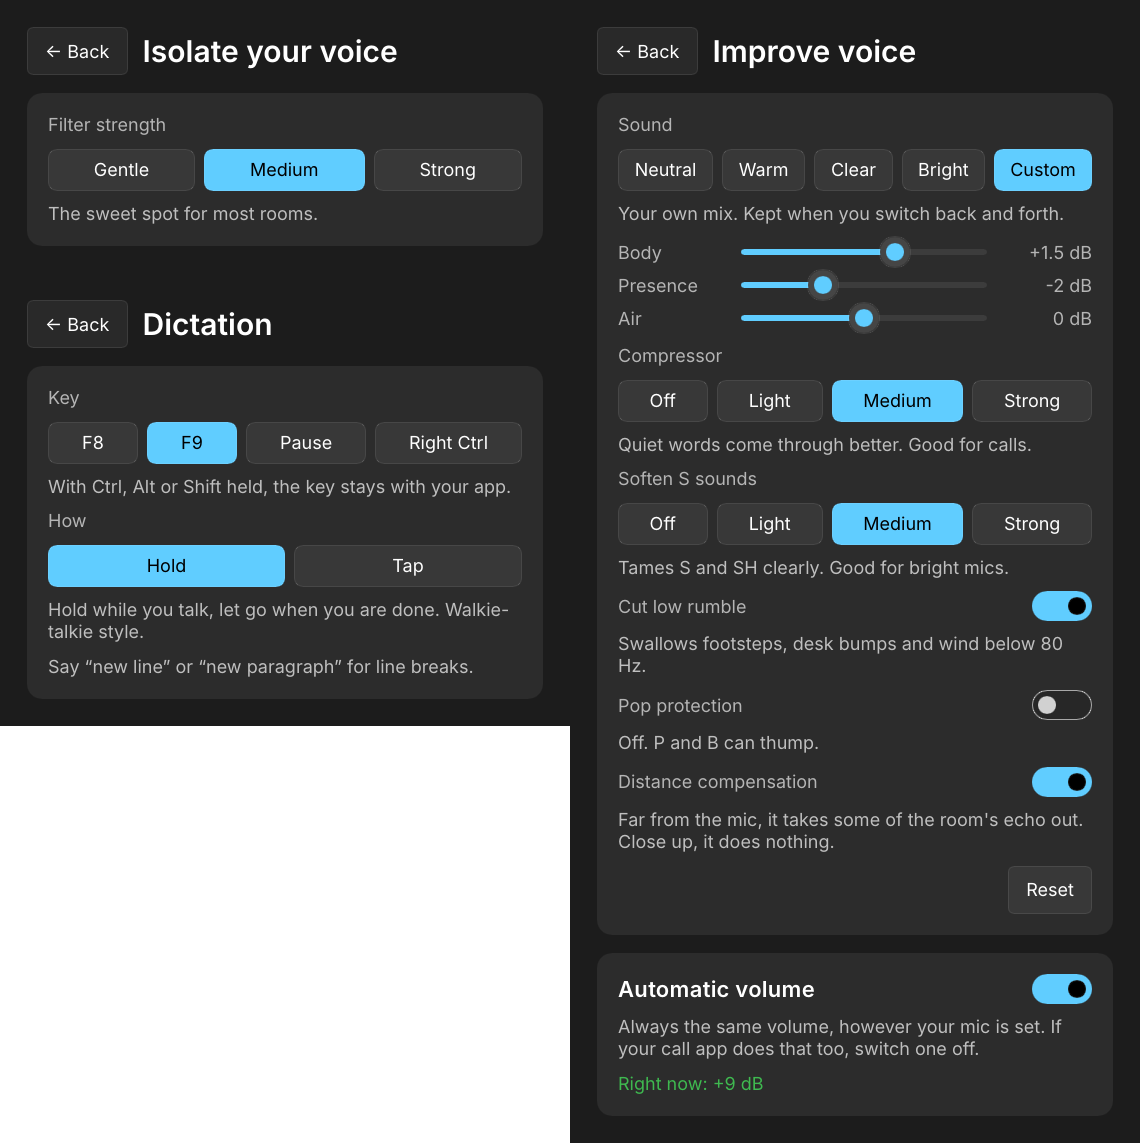
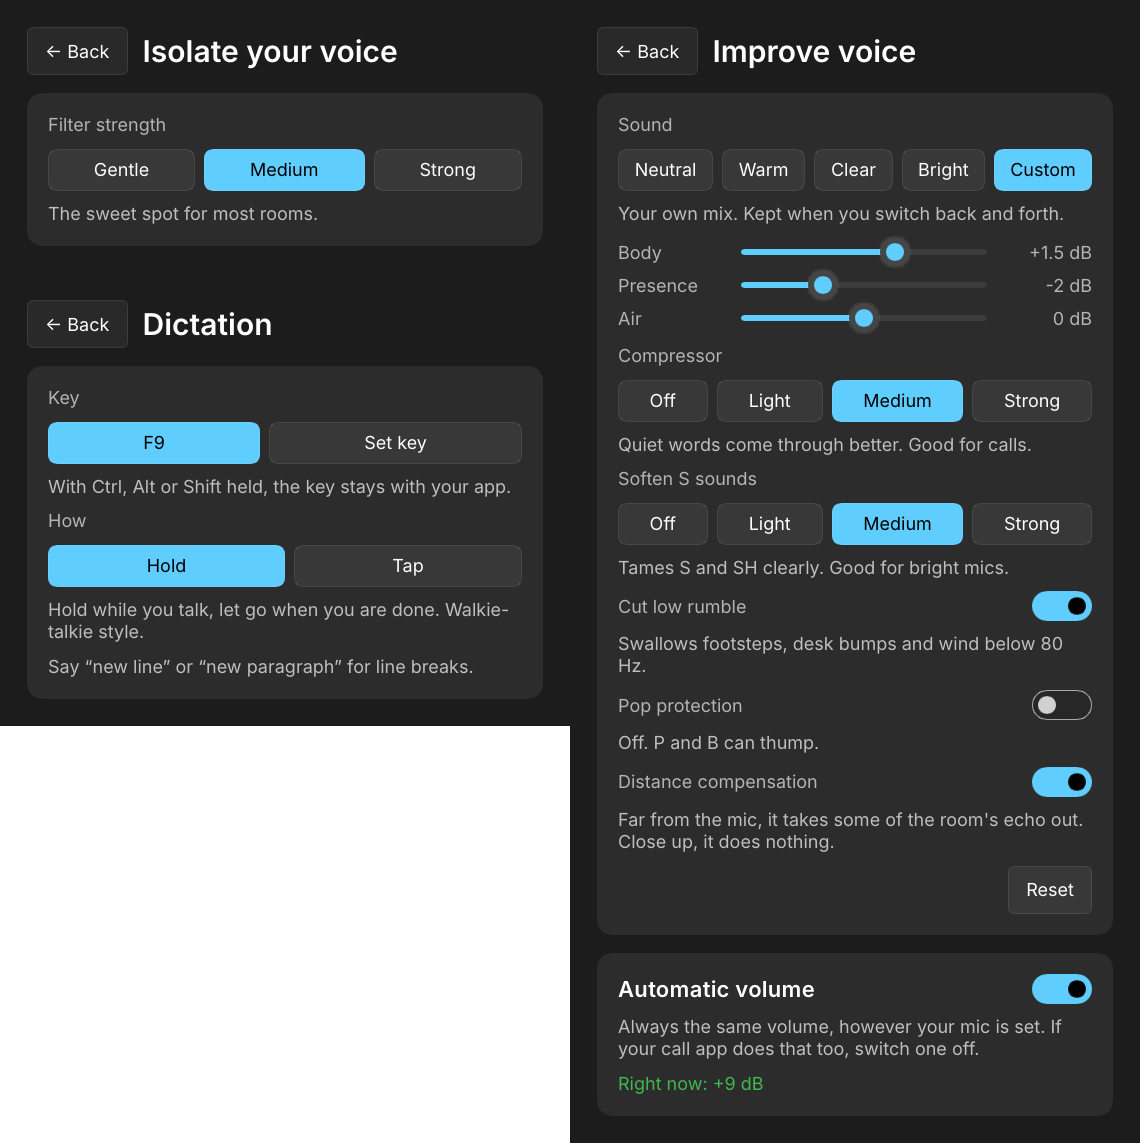
0.6.0: key choice in NEWS, CHANGELOG and metainfo; settings screenshot with the key field
Claude-Session: https://claude.ai/code/session_01L2hKs7m35dEF4PRe6JQ2yG

Changed region(s): [[0.0307, 0.3675, 0.2763, 0.4287], [0.307, 0.3675, 0.4298, 0.3981]]

diff --git a/NEWS.md b/NEWS.md
@@ -18,10 +18,11 @@ line saying nothing changes on Windows.
 
 ## 0.6.0
 
-- Voice memos: tap F8, talk, tap F8 again. kyrr saves the recording in Documents, folder kyrr, and names it after what it is about. The list under "Recordings" plays, renames and deletes them; "Write text" turns a recording into text with the time each part starts. Switch it off on the main page; change the key under its gear.
-- Settings are tidier: every switch on the main page has its own gear, "Setup" holds the rest, each in one view. "Remove background noise" is now "Isolate your voice", "Words while you talk" is "Live text".
+- Voice memos: tap F8, talk, tap F8 again, or hold it while you talk. kyrr saves the recording in Documents, folder kyrr, and names it after what it is about. The list under "Recordings" plays, renames and deletes them; "Write text" turns a recording into text with time marks. Switch it off on the main page.
+- A key of your own for dictation and for memos: under the gear, "Set key", then press it.
+- Settings are tidier: every switch on the main page has its own gear, "Setup" holds the rest. "Remove background noise" is now "Isolate your voice", "Words while you talk" is "Live text".
 - The setup has three steps now: microphone, language and dictation model, performance setting.
-- New setting "Effort": Lean or Best quality, for older laptops and for most computers. Lean dictations last up to 2 minutes, the others 15; towards the limit the wave turns yellow, then red.
+- New setting "Effort": Lean for older laptops, otherwise Best quality. Lean dictations last up to 2 minutes, the others 15; towards the limit the wave turns yellow, then red.
 - The wave writes the words smoothly and with fewer mistakes, and sooner on slower computers.
 - Distance compensation is no longer a beta and is on by default (gear of the voice card, Advanced).
 - The first words after starting kyrr or installing it are no longer lost.
@@ -36,18 +37,19 @@ line saying nothing changes on Windows.
 
 ### Deutsch
 
-- Sprachaufzeichnungen: F8 antippen, sprechen, nochmal F8. kyrr speichert die Aufnahme unter Dokumente im Ordner kyrr und benennt sie nach ihrem Inhalt. Die Liste unter „Aufzeichnungen“ spielt ab, benennt um und löscht; „Text schreiben“ macht aus einer Aufnahme Text mit der Zeit, an der jeder Abschnitt beginnt. Auf der Hauptseite abschaltbar, die Taste ist im Zahnrad änderbar.
-- Die Einstellungen sind aufgeräumter: Jeder Schalter auf der Hauptseite hat ein Zahnrad, der Rest steht unter „Setup“, alles in einer Ansicht. „Störgeräusche entfernen“ heißt jetzt „Stimme isolieren“, „Wörter beim Sprechen“ heißt „Live-Text“.
+- Sprachaufzeichnungen: F8 antippen, sprechen, nochmal F8, oder beim Sprechen halten. kyrr speichert die Aufnahme unter Dokumente im Ordner kyrr und benennt sie nach ihrem Inhalt. Die Liste unter „Aufzeichnungen“ spielt ab, benennt um und löscht; „Text schreiben“ macht aus einer Aufnahme Text mit Zeitmarken. Auf der Hauptseite abschaltbar.
+- Eigene Taste fürs Diktieren und für Aufzeichnungen: im Zahnrad „Taste festlegen“ und drücken.
+- Die Einstellungen sind aufgeräumter: Jeder Schalter auf der Hauptseite hat ein Zahnrad, der Rest steht unter „Setup“. „Störgeräusche entfernen“ heißt jetzt „Stimme isolieren“, „Wörter beim Sprechen“ heißt „Live-Text“.
 - Die Einrichtung hat jetzt drei Schritte: Mikrofon, Sprache und Diktiermodell, Leistungseinstellung.
-- Neue Einstellung „Rechenaufwand“: Sparsam oder Beste Qualität, für ältere Laptops und für die meisten Rechner. Mit Sparsam diktierst du bis zu 2 Minuten am Stück, sonst 15; zum Limit hin wird die Welle gelb, dann rot.
+- Neue Einstellung „Rechenaufwand“: Sparsam für ältere Laptops, sonst Beste Qualität. Mit Sparsam diktierst du bis zu 2 Minuten am Stück, sonst 15; zum Limit hin wird die Welle gelb, dann rot.
 - Die Welle schreibt die Wörter weich und mit weniger Fehlern, auf langsamen Rechnern früher.
 - Der Abstandsausgleich ist keine Beta mehr und standardmäßig an (Zahnrad der Stimme-Karte, Erweitert).
 - Die ersten Wörter nach dem Start von kyrr oder nach der Installation gehen nicht mehr verloren.
 - Ist der Rechner für die beste Geräuschunterdrückung zu langsam, stellt kyrr selbst auf Sparsam, statt dass das Mikro stottert.
 - Langes Diktieren wird nach dem Loslassen deutlich früher getippt und braucht weniger Speicher.
-- Ein abgebrochener Modell-Download macht dort weiter, wo er aufgehört hat.
+- Ein abgebrochener Modell-Download läuft an der Stelle weiter.
 - Mehr Abwechslung in der Statuszeile, und der Spruch in der Pille, wenn nichts gehört wurde, bleibt länger stehen.
-- Setup, Über kyrr: „Feedback“ öffnet eine E-Mail an den Entwickler, fertig zum Schreiben.
+- Setup, Über kyrr: „Feedback“ öffnet eine fertige E-Mail an den Entwickler.
 - Mehr Bedienelemente gehen per Tastatur und Screenreader.
 - (Linux) Für ein Update einfach die Installationsbefehle nochmal einfügen, ohne kyrr vorher zu schließen.
 - (Linux) kyrr erholt sich vom Neustart des Soundsystems, das AppImage ist ein Drittel kleiner.

diff --git a/CHANGELOG.md b/CHANGELOG.md
@@ -2,6 +2,17 @@
 
 ## 0.6.0 (2026-10-21)
 
+- Keys: dictation (standard F9) and voice memos (standard F8) each offer
+  the standard key and a "Set key" field: click it, press a key. Offered
+  are F1-F24, Pause, Scroll Lock, Menu and right Ctrl; letters, Space,
+  Enter, Escape, arrows and the other modifiers are refused with a
+  sentence, and so is the key the other feature already has (no silent
+  swap). While a field waits, kyrr takes no key. Voice memos get Hold or
+  Tap like dictation (Tap stays the standard). Where only a press arrives
+  (GNOME before 48, niri, an own command) memos are tap only. Linux:
+  `kyrr --memo-start` and `kyrr --memo-stop` for held memo keys in
+  Hyprland, sway and river binds. Old settings keep working; "none" for
+  the memo key becomes F8.
 - Windows: the dictation and memo keys also work while kyrr's own window
   has the focus (Windows does not call the low-level hook then; the
   window passes the keys on).
@@ -21,8 +32,7 @@
   rested and RTKit ended kyrr; on both systems the microphone stuttered and
   dictation heard nothing. The pill's "nothing heard" note stays 3.2 s
   (was 1.6 s).
-- Voice memos: F8 (F9 or Pause when dictation has F8; switchable, or
-  none) starts and ends a recording, also from the tray (and on Linux
+- Voice memos: F8 (switchable) starts and ends a recording, also from the tray (and on Linux
   with `kyrr --memo`). Opus mono at 24 kbit/s, up to 4 hours, into
   `Documents/kyrr` as `YYYY-MM-DD HH-MM Title.opus`; the title comes from
   the first sentence the dictation model hears, and the pen next to it
